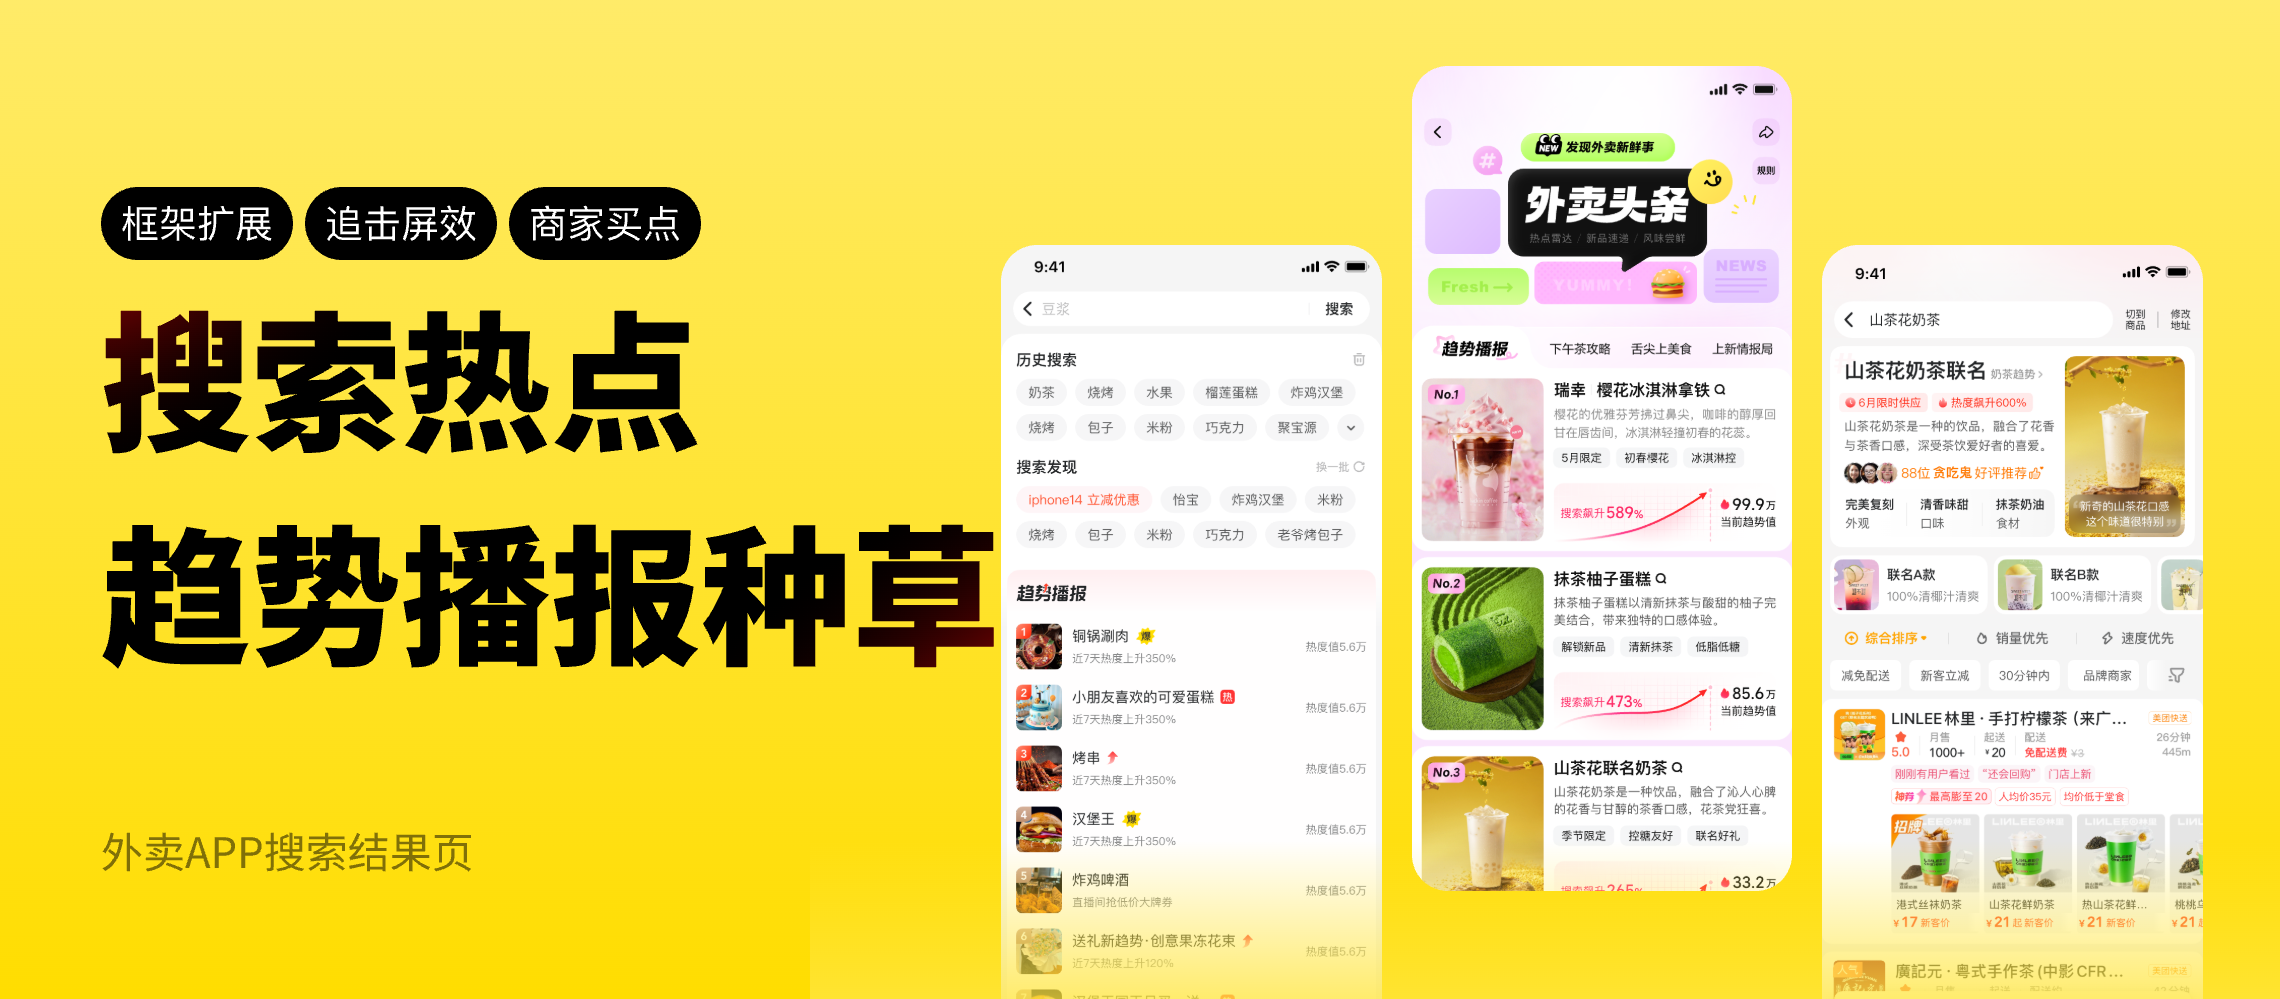
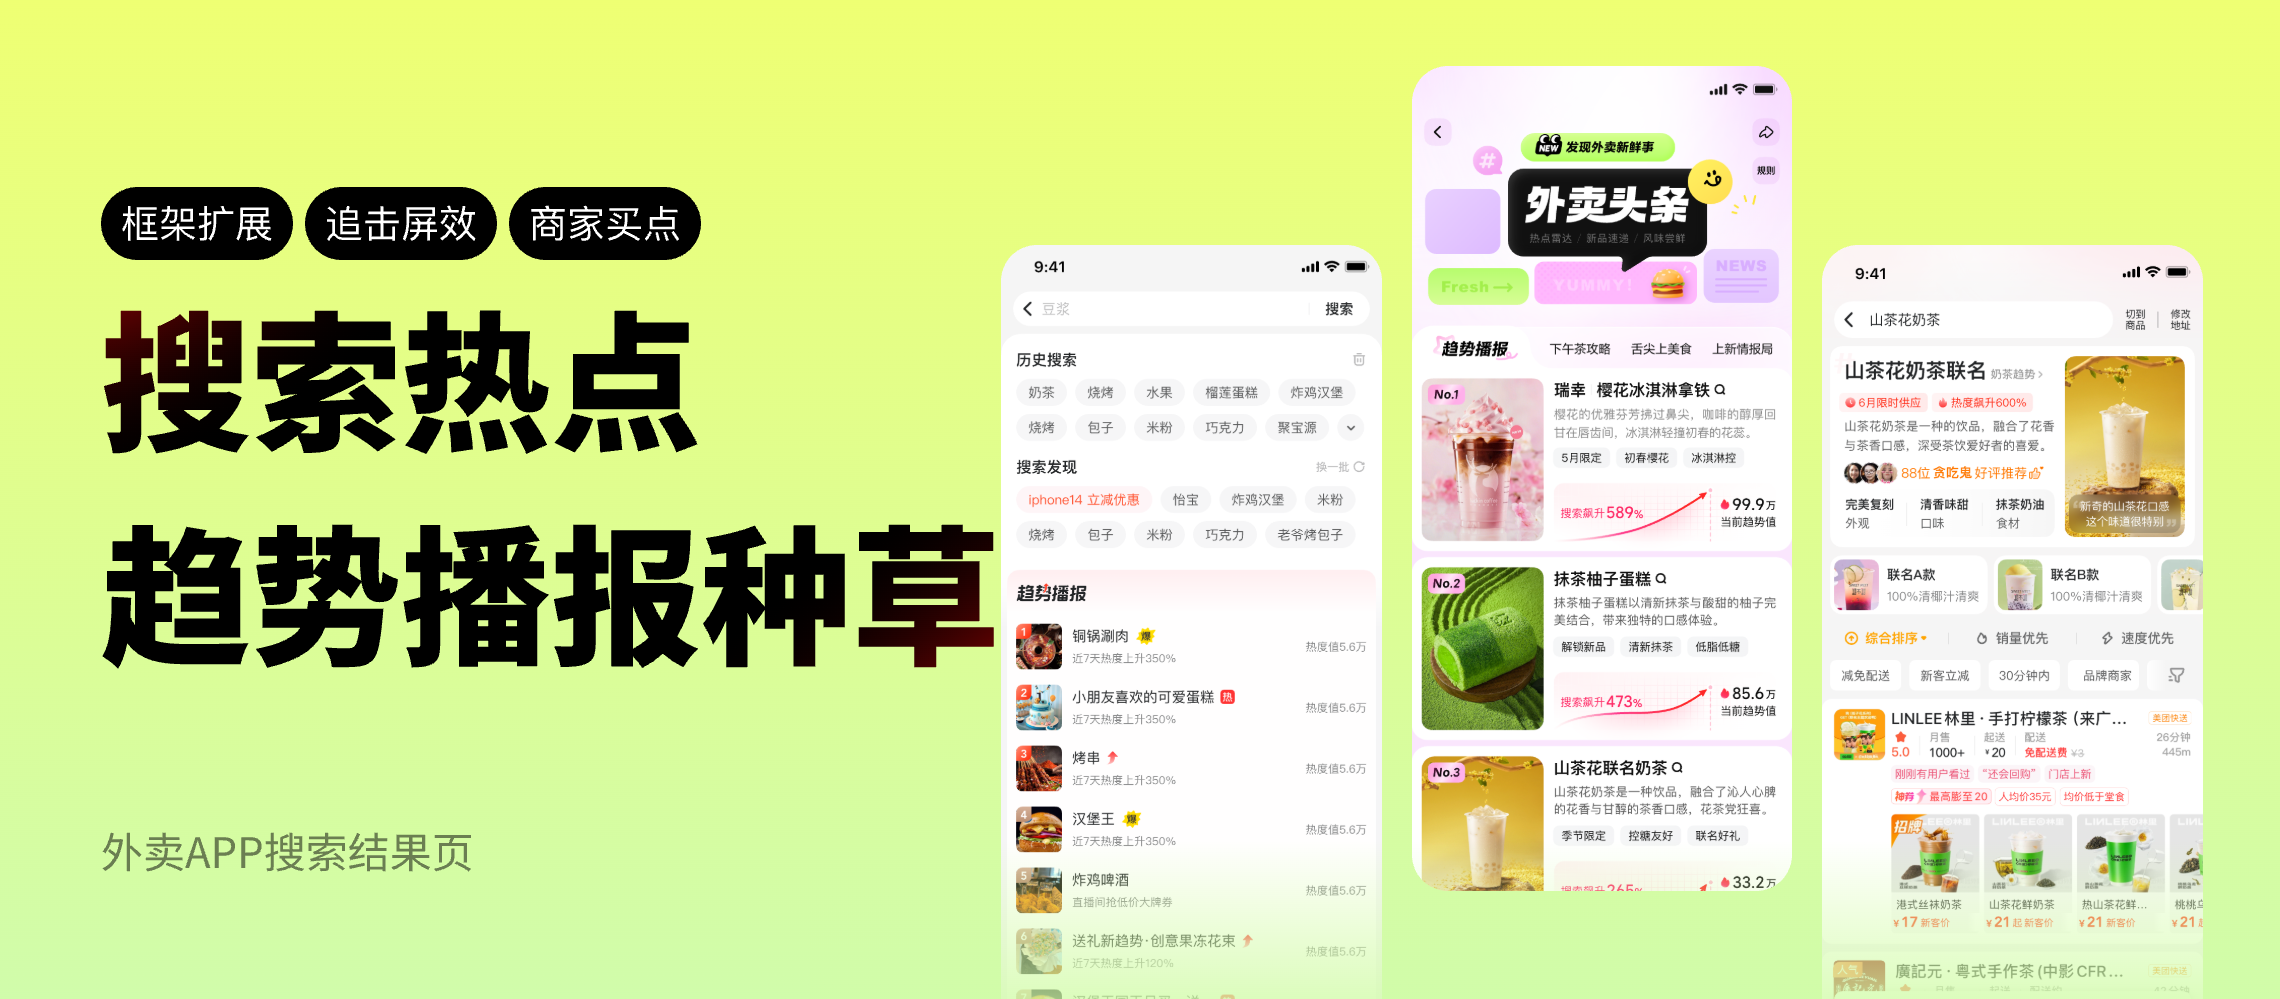
refine: update project-03 cover and add hero-visual

diff --git a/project-03.html b/project-03.html
@@ -59,6 +59,12 @@
 
     .content { max-width: 1200px; margin: 0 auto; padding: 0 48px 120px; }
 
+    /* Hero visual */
+    .hero-visual { width:100%; max-width:1200px; margin:0 auto 80px; padding:0 48px; }
+    .hero-visual-inner { width:100%; border-radius:16px; overflow:hidden; position:relative; }
+    .hero-visual-inner img { width:100%; height:auto; display:block; }
+    @media(max-width:768px){ .hero-visual{ padding:0 24px; } }
+
     /* AARRR funnel */
     .funnel {
       background: var(--black); border-radius: 16px; padding: 48px; margin-bottom: 80px;
@@ -178,6 +184,13 @@
     </div>
     <p class="hero-desc reveal">趋势播报以"为外卖用户提供最新、最热美食的种拔草榜单"为使命。通过 AARRR 增长模型拆解热点种草全链路，构建引流→兴趣→种草→交易四阶段设计策略，目标将热点渗透用户从 45w/日提升至 1200w/日。</p>
   </section>
+
+  <!-- Hero visual -->
+  <div class="hero-visual reveal">
+    <div class="hero-visual-inner">
+      <img src="cover-trend.png" alt="搜索热点趋势播报种草">
+    </div>
+  </div>
 
   <!-- Content -->
   <div class="content">